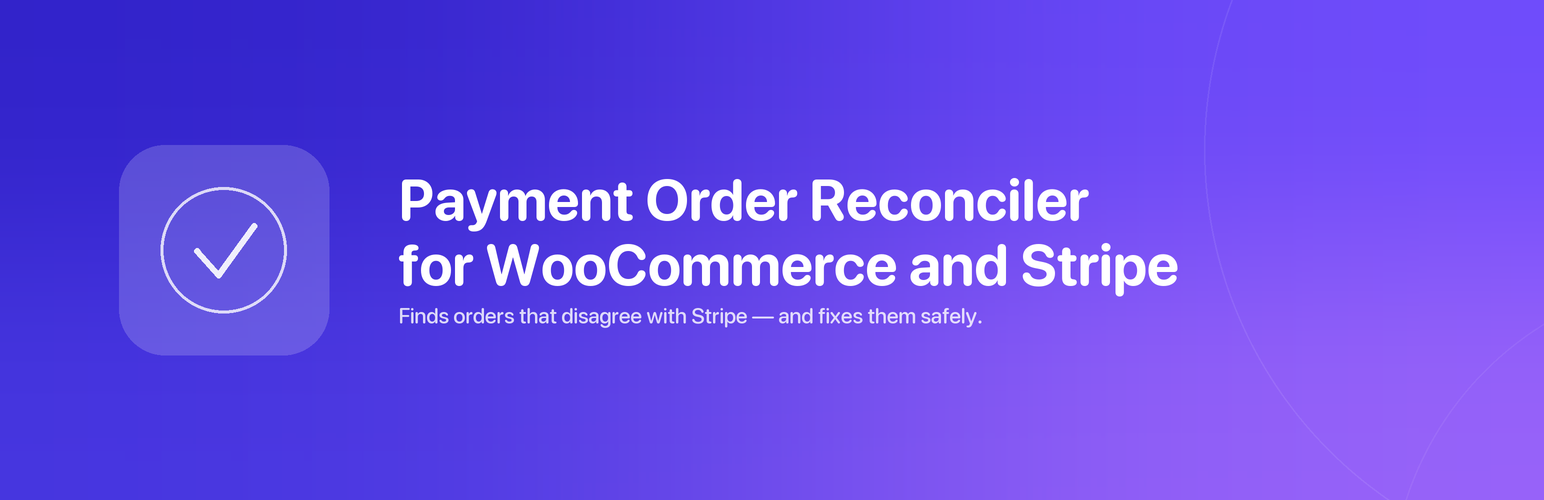
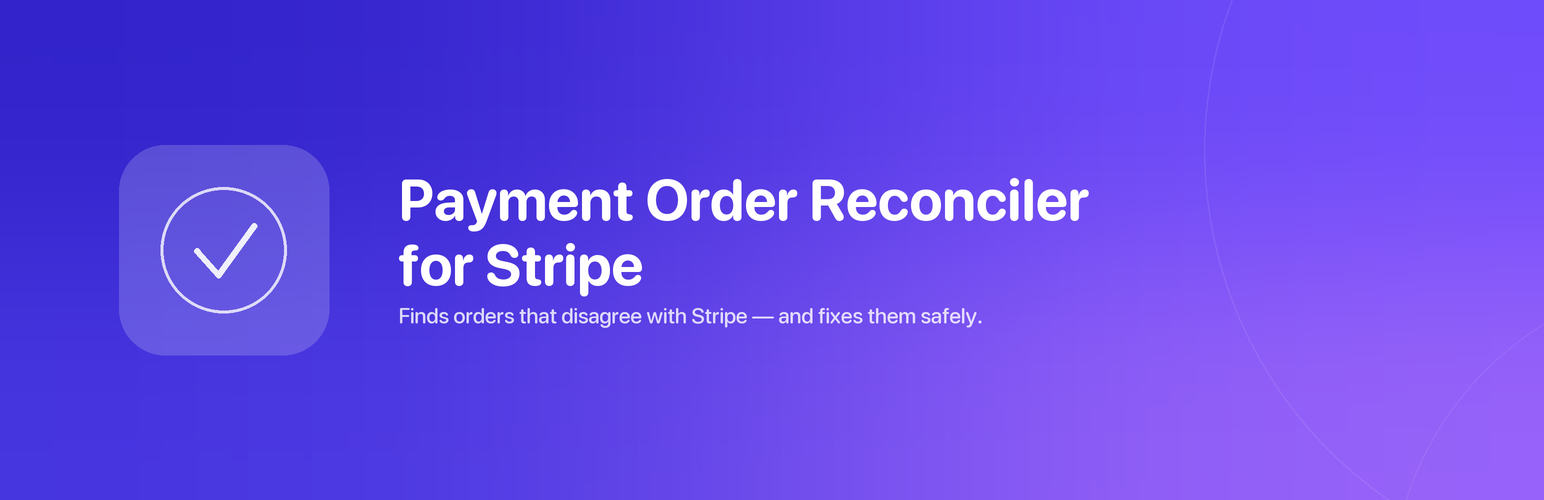
Drop WooCommerce from the plugin name per WP.org review rejection
The actual WP.org plugin review team rejected the phase-4 submission:
"woocommerce" is banned from the plugin permalink and display name in
any position, not just from leading it — a stricter, flat rule specific
to that trademark, unlike the general "don't lead" guidance that
applies to most others (Stripe wasn't flagged). They also explicitly
warn against letter-substitution workarounds.

New public name: Payment Order Reconciler for Stripe. Slug unchanged
(payment-order-reconciler never contained "woocommerce" — only the
display name did), so no repo/directory rename needed this round.

Updated: Plugin Name header and activation-notice strings, readme.txt
title, README/PROBLEM/TECHNICAL_SPEC prose, and both WP.org banner
images (regenerated — they had the rejected name rendered as text).

Claude-Session: https://claude.ai/code/session_01WEN1zyymHkvjAmAVCT5xYQ

Changed region(s): [[0.3109, 0.48, 0.7772, 0.6]]

diff --git a/payment-order-reconciler/payment-order-reconciler.php b/payment-order-reconciler/payment-order-reconciler.php
@@ -1,6 +1,6 @@
 <?php
 /**
- * Plugin Name:       Payment Order Reconciler for WooCommerce and Stripe
+ * Plugin Name:       Payment Order Reconciler for Stripe
  * Plugin URI:        https://github.com/eclayaz/payment-order-reconciler
  * Description:       Reconciles Stripe payment state against WooCommerce order state for stores on the standard Stripe gateway plugin. Self-hosted, read-only Stripe API key only — no data ever leaves your site.
  * Version:           1.1.0
@@ -77,7 +77,7 @@ function wsr_missing_dependencies_notice() {
 		<p>
 			<?php
 			esc_html_e(
-				'Payment Order Reconciler for WooCommerce and Stripe requires both WooCommerce and the "WooCommerce Stripe Payment Gateway" plugin to be active. It has been deactivated.',
+				'Payment Order Reconciler for Stripe requires both WooCommerce and the "WooCommerce Stripe Payment Gateway" plugin to be active. It has been deactivated.',
 				'payment-order-reconciler'
 			);
 			?>
@@ -155,7 +155,7 @@ add_action(
 			<p>
 				<?php
 				esc_html_e(
-					'Payment Order Reconciler for WooCommerce and Stripe could not be activated: both WooCommerce and the "WooCommerce Stripe Payment Gateway" plugin must be active first.',
+					'Payment Order Reconciler for Stripe could not be activated: both WooCommerce and the "WooCommerce Stripe Payment Gateway" plugin must be active first.',
 					'payment-order-reconciler'
 				);
 				?>

diff --git a/PROBLEM.md b/PROBLEM.md
@@ -1,6 +1,6 @@
 # Problem Statement — WooCommerce Stripe Order Reconciliation
 
-Working name during development: `woo-stripe-reconcile`. Renamed at WP.org rollout planning (2026-08-30, phase 1) to **Stripe Order Reconciler for WooCommerce** to stop leading with the WooCommerce trademark — but that rename still led with "Stripe," which WordPress.org's own published naming guidance rejects on the same "can't lead with a trademark you don't own" basis (their guidelines list "Stripe Payments" as a disallowed example for exactly this reason). Corrected 2026-09-12: final public name is **Payment Order Reconciler for WooCommerce and Stripe**, slug `payment-order-reconciler` — both trademarks now trail, neither leads.
+Working name during development: `woo-stripe-reconcile`. Renamed at WP.org rollout planning (2026-08-30, phase 1) to **Stripe Order Reconciler for WooCommerce** to stop leading with the WooCommerce trademark — but that rename still led with "Stripe," which WordPress.org's own published naming guidance rejects on the same "can't lead with a trademark you don't own" basis (their guidelines list "Stripe Payments" as a disallowed example for exactly this reason). Corrected 2026-09-12 (second pass) to **Payment Order Reconciler for WooCommerce and Stripe**, reasoning both trademarks were now merely trailing, not leading — but the actual WP.org plugin review team rejected this submission outright: their policy on "woocommerce" specifically is a flat ban from the name/slug in any position, not the general "don't lead" rule that applies to most trademarks, and they explicitly warn against letter-substitution workarounds. Corrected 2026-09-12 (third pass, in response to that rejection): final public name is **Payment Order Reconciler for Stripe**, slug unchanged (`payment-order-reconciler` never contained "woocommerce" — only the display name did). "Stripe" trailing was not flagged by the reviewer, but given two prior naming misses, WooCommerce is dropped from the name entirely rather than risk a fourth attempt.
 
 > Revised 2026-08-29, three times. First pass: independent review verified/corrected the evidence base against GitHub and Stripe docs. Second pass: a follow-up review found corrections that were individually right but hadn't been traced into consequences elsewhere. Third pass: a follow-up review found the fact base now solid, but found that new mechanisms introduced in the second rewrite didn't compose with each other (a permanent-vs-live-checked dispute exclusion, an unbuildable database constraint, two undefined-behavior drift types, an audit log that could misattribute who fixed what). All three passes' corrections are kept inline.
 

diff --git a/TECHNICAL_SPEC.md b/TECHNICAL_SPEC.md
@@ -29,7 +29,7 @@ The prior revision specified an hourly incremental pass (by `created` high-water
 
 ## Plugin identity
 
-- Slug: `payment-order-reconciler` (final — was `woo-stripe-reconcile` during development, then `stripe-order-reconciler` at WP.org rollout phase 1, which fixed leading with the WooCommerce trademark but introduced leading with the Stripe trademark instead — WordPress.org's own naming guidance disallows both equally. Corrected 2026-09-12 so neither trademark leads.) Public name: **Payment Order Reconciler for WooCommerce and Stripe**. Hard dependency on WooCommerce + gateway plugin active. HPOS compatibility declared via `FeaturesUtil::declare_compatibility`. Baseline: WordPress 6.8, PHP 7.4 (the gateway's own requirement, since the target population is gateway users specifically).
+- Slug: `payment-order-reconciler` (final, unchanged since 2026-09-12 — was `woo-stripe-reconcile` during development, then `stripe-order-reconciler` at WP.org rollout phase 1. It never contained "woocommerce"; only the display name did.) Public name: **Payment Order Reconciler for Stripe** (was "...for WooCommerce and Stripe" until the actual WP.org review team rejected that submission — their policy bans "woocommerce" from the name/slug outright, in any position, not merely from leading it). Hard dependency on WooCommerce + gateway plugin active. HPOS compatibility declared via `FeaturesUtil::declare_compatibility`. Baseline: WordPress 6.8, PHP 7.4 (the gateway's own requirement, since the target population is gateway users specifically).
 - Query orders via `wc_get_orders()`/`WC_Order_Query`/core lookup helpers only, never raw `$wpdb` — this recommendation stands on its own merits (a prior revision incorrectly cited the gateway plugin itself as violating this; on inspection its raw-query path is an intentional, correct legacy-storage branch, not a bug to avoid copying for that reason).
 
 ## Data model

diff --git a/README.md b/README.md
@@ -1,4 +1,4 @@
-# Payment Order Reconciler for WooCommerce and Stripe
+# Payment Order Reconciler for Stripe
 
 A self-hosted WordPress plugin that reconciles Stripe payment state against WooCommerce order state — for stores using the third-party **WooCommerce Stripe Payment Gateway** plugin (not WooPayments).
 
@@ -44,7 +44,7 @@ Not yet published on WordPress.org — that submission is still pending (see `wp
 
 1. Copy (or clone) the `payment-order-reconciler/` directory into your site's `wp-content/plugins/`.
 2. Activate WooCommerce and the WooCommerce Stripe Payment Gateway first — the plugin refuses to activate (and deactivates itself if either is later turned off) without both.
-3. Activate **Payment Order Reconciler for WooCommerce and Stripe**.
+3. Activate **Payment Order Reconciler for Stripe**.
 
 ## Setup
 
